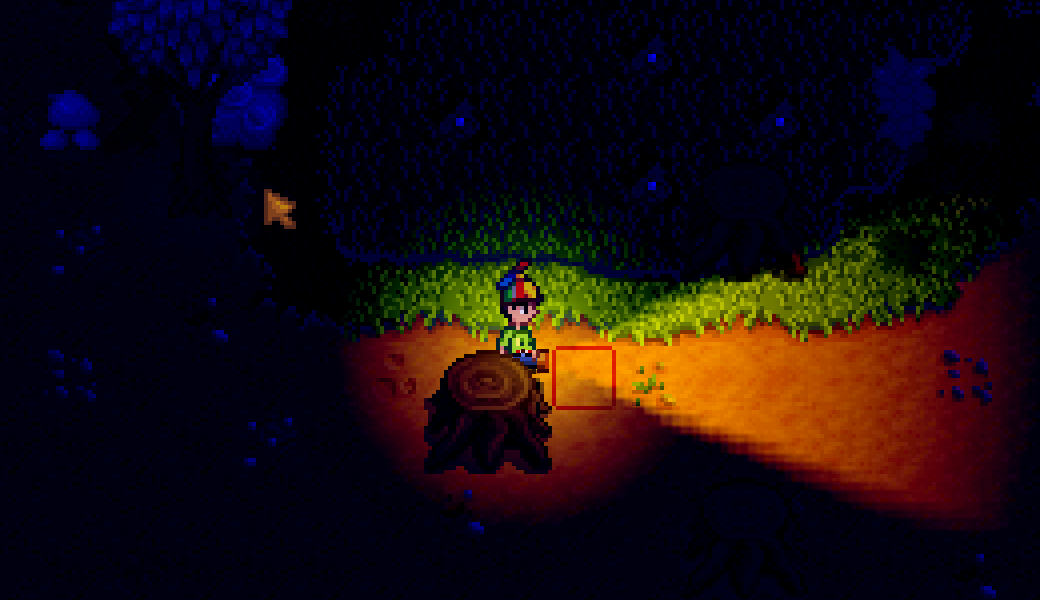
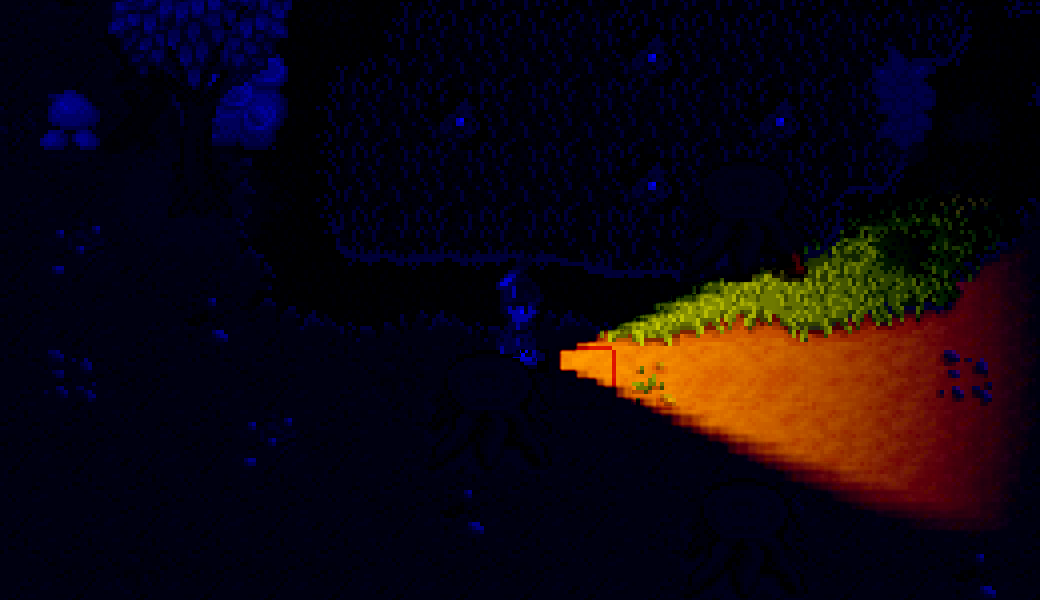
Make the flashlight a plain cone, keep the lens clear of the fingers and offset the front and back views to the hand

Changed region(s): [[0.3077, 0.33, 0.7077, 0.87], [0.2462, 0.3, 0.3077, 0.39]]

diff --git a/Flashlight/ModEntry.cs b/Flashlight/ModEntry.cs
@@ -27,7 +27,6 @@ namespace Flashlight
         // Each split-screen player has a flashlight of their own.
         private readonly PerScreen<bool> _on = new();
         private readonly PerScreen<string?> _lightId = new();
-        private readonly PerScreen<string?> _glowId = new();
         private readonly PerScreen<string?> _lightLocation = new();
         private readonly PerScreen<bool> _warnedLow = new();
         private readonly PerScreen<int> _flickerTicks = new();
@@ -422,26 +421,6 @@ namespace Flashlight
             return player.Position + from;
         }
 
-        /// <summary>The middle of the farmer, where the soft glow around them is centred.</summary>
-        private static Vector2 GlowOrigin(Farmer player) => player.Position + new Vector2(32f, -24f);
-
-        /// <summary>The soft glow is a little dimmer than the beam, so the beam still reads as the main light.</summary>
-        private Color GlowColor(float boost)
-        {
-            var c = ColorFor(boost);
-            return new Color(c.R, (int)(c.G * 0.7f), (int)(c.B * 0.7f));
-        }
-
-        /// <summary>Adds the soft light around the farmer, when the settings ask for one.</summary>
-        private void AddGlow(Farmer player, GameLocation location, float boost)
-        {
-            if (_config.AmbientGlowTiles <= 0 || _lightId.Value is null)
-                return;
-            var glowId = _lightId.Value + "_glow";
-            location.sharedLights.AddLight(new LightSource(glowId, LightSource.lantern, GlowOrigin(player), _config.AmbientGlowTiles * Brightness(boost), GlowColor(boost), LightSource.LightContext.None, player.UniqueMultiplayerID, location.NameOrUniqueName));
-            _glowId.Value = glowId;
-        }
-
         private void AddLight(Farmer player)
         {
             var location = player.currentLocation;
@@ -457,7 +436,6 @@ namespace Flashlight
             };
             location.sharedLights.AddLight(light);
             _lightId.Value = id;
-            AddGlow(player, location, boost);
             _lightLocation.Value = location.NameOrUniqueName;
         }
 
@@ -468,10 +446,7 @@ namespace Flashlight
             // the light may be in the place the farmer just left
             var location = Game1.getLocationFromName(_lightLocation.Value) ?? Game1.player.currentLocation;
             location?.removeLightSource(_lightId.Value);
-            if (_glowId.Value is not null)
-                location?.removeLightSource(_glowId.Value);
             _lightId.Value = null;
-            _glowId.Value = null;
             _lightLocation.Value = null;
         }
 
@@ -480,7 +455,6 @@ namespace Flashlight
             _on.Value = false;
             _tool.Value = null;
             _lightId.Value = null;
-            _glowId.Value = null;
             _lightLocation.Value = null;
         }
 
@@ -490,10 +464,7 @@ namespace Flashlight
                 return;
             // move the light into the new place
             e.OldLocation?.removeLightSource(_lightId.Value);
-            if (_glowId.Value is not null)
-                e.OldLocation?.removeLightSource(_glowId.Value);
             _lightId.Value = null;
-            _glowId.Value = null;
             AddLight(e.Player);
         }
 
@@ -523,19 +494,12 @@ namespace Flashlight
             }
 
             location.repositionLightSource(_lightId.Value, BeamOrigin(player));
-            // the glow can be switched on in the settings while the flashlight is already lit
-            if (_glowId.Value is null && _config.AmbientGlowTiles > 0)
-                AddGlow(player, location, 0f);
-            var glow = _glowId.Value is { } glowName ? location.getLightSource(glowName) : null;
-            glow?.position.Set(GlowOrigin(player));
             light.lightTexture = BeamFor(player.FacingDirection);
 
             // no beam during a cutscene or a festival, where the farmer is moved by the script
             if (Game1.eventUp)
             {
                 light.radius.Value = 0f;
-                if (glow is not null)
-                    glow.radius.Value = 0f;
                 return;
             }
 
@@ -552,11 +516,6 @@ namespace Flashlight
             var boost = _tool.Value is { } held ? FlashlightState.Boost(held) : 0f;
             light.color.Value = ColorFor(boost);
             light.radius.Value = Radius * Brightness(boost) * strength;
-            if (glow is not null)
-            {
-                glow.color.Value = GlowColor(boost);
-                glow.radius.Value = _config.AmbientGlowTiles * Brightness(boost) * strength;
-            }
         }
     }
 }

diff --git a/Flashlight.Tests/ModConfigTests.cs b/Flashlight.Tests/ModConfigTests.cs
@@ -9,7 +9,6 @@ public class ModConfigTests
         Assert.Equal("F", config.ToggleKey);
         Assert.Equal(7, config.BeamLengthTiles);
         Assert.Equal(4, config.BatteryHours);
-        Assert.Equal(3, config.AmbientGlowTiles);
         Assert.True(config.UseBatteryPacks);
         Assert.Equal(12, config.BatteryPackHours);
         Assert.Equal(130, config.BatteryPackBeamPercent);
@@ -47,17 +46,6 @@ public class ModConfigTests
         config.Clamp();
         Assert.Equal(expectedHours, config.BatteryPackHours);
         Assert.Equal(expectedPercent, config.BatteryPackBeamPercent);
-    }
-
-    [Theory]
-    [InlineData(-4, 0)]
-    [InlineData(3, 3)]
-    [InlineData(40, 6)]
-    public void TheGlowAroundTheFarmerIsKeptInRange(int set, int expected)
-    {
-        var config = new ModConfig { AmbientGlowTiles = set };
-        config.Clamp();
-        Assert.Equal(expected, config.AmbientGlowTiles);
     }
 
     [Fact]
@@ -113,7 +101,7 @@ public class ModConfigCopyTests
         {
             ToggleKey = "G", BeamLengthTiles = 5, BatteryHours = 7, BatterySlots = 3, FlashlightPrice = 111, BatteryPrice = 22,
             SoldAtCarpenter = false, BatteryDailyStock = 7, BatteryOutOfStockPercent = 33, BatteryLowStockPercent = 44,
-            MaxBatteriesCarried = 9, FlickerSecondsBetween = 77, UseBatteryPacks = false, AmbientGlowTiles = 5, BatteryPackHours = 20, BatteryPackBeamPercent = 150, ShowInHand = false,
+            MaxBatteriesCarried = 9, FlickerSecondsBetween = 77, UseBatteryPacks = false, BatteryPackHours = 20, BatteryPackBeamPercent = 150, ShowInHand = false,
         };
         var target = new ModConfig();
         target.CopyFrom(changed);
@@ -129,7 +117,7 @@ public class ModConfigCopyTests
         {
             ToggleKey = "G", BeamLengthTiles = 5, BatteryHours = 7, BatterySlots = 3, FlashlightPrice = 111, BatteryPrice = 22,
             SoldAtCarpenter = false, BatteryDailyStock = 7, BatteryOutOfStockPercent = 33, BatteryLowStockPercent = 44,
-            MaxBatteriesCarried = 9, FlickerSecondsBetween = 77, UseBatteryPacks = false, AmbientGlowTiles = 5, BatteryPackHours = 20, BatteryPackBeamPercent = 150, ShowInHand = false,
+            MaxBatteriesCarried = 9, FlickerSecondsBetween = 77, UseBatteryPacks = false, BatteryPackHours = 20, BatteryPackBeamPercent = 150, ShowInHand = false,
         };
         var defaults = new ModConfig();
         foreach (var property in typeof(ModConfig).GetProperties())

diff --git a/Flashlight/ConfigMenu.cs b/Flashlight/ConfigMenu.cs
@@ -23,7 +23,6 @@ namespace Flashlight
             menu.AddTextOption(manifest, () => config().ToggleKey, v => config().ToggleKey = v, () => t.Get("gmcm.key.name"), () => t.Get("gmcm.key.tip"));
             menu.AddNumberOption(manifest, () => config().BeamLengthTiles, v => config().BeamLengthTiles = v, () => t.Get("gmcm.beam.name"), () => t.Get("gmcm.beam.tip"), 3, 12, 1);
             menu.AddNumberOption(manifest, () => config().BatteryHours, v => config().BatteryHours = v, () => t.Get("gmcm.hours.name"), () => t.Get("gmcm.hours.tip"), 1, 12, 1);
-            menu.AddNumberOption(manifest, () => config().AmbientGlowTiles, v => config().AmbientGlowTiles = v, () => t.Get("gmcm.glow.name"), () => t.Get("gmcm.glow.tip"), 0, 6, 1, tiles => tiles == 0 ? t.Get("gmcm.off") : $"{tiles}");
             menu.AddBoolOption(manifest, () => config().ShowInHand, v => config().ShowInHand = v, () => t.Get("gmcm.hand.name"), () => t.Get("gmcm.hand.tip"));
             menu.AddBoolOption(manifest, () => config().UseBatteryPacks, v => config().UseBatteryPacks = v, () => t.Get("gmcm.packs.name"), () => t.Get("gmcm.packs.tip"));
             menu.AddNumberOption(manifest, () => config().BatteryPackHours, v => config().BatteryPackHours = v, () => t.Get("gmcm.packhours.name"), () => t.Get("gmcm.packhours.tip"), 1, 48, 1);

diff --git a/Flashlight/ModConfig.cs b/Flashlight/ModConfig.cs
@@ -12,9 +12,6 @@ namespace Flashlight
         /// <summary>How long one battery lasts, in in-game hours.</summary>
         public int BatteryHours { get; set; } = 4;
 
-        /// <summary>How far, in tiles, the soft light around the farmer reaches. 0 turns it off and leaves only the beam.</summary>
-        public int AmbientGlowTiles { get; set; } = 3;
-
         /// <summary>Whether the game's Battery Pack can be loaded as a longer lasting, brighter cell.</summary>
         public bool UseBatteryPacks { get; set; } = true;
 
@@ -74,7 +71,6 @@ namespace Flashlight
                 ToggleKey = "F";
             BeamLengthTiles = Math.Clamp(BeamLengthTiles, 3, 12);
             BatteryHours = Math.Clamp(BatteryHours, 1, 12);
-            AmbientGlowTiles = Math.Clamp(AmbientGlowTiles, 0, 6);
             BatteryPackHours = Math.Clamp(BatteryPackHours, 1, 48);
             BatteryPackBeamPercent = Math.Clamp(BatteryPackBeamPercent, 100, 200);
             FlashlightPrice = Math.Clamp(FlashlightPrice, 0, 100_000);

diff --git a/Flashlight/HeldFlashlight.cs b/Flashlight/HeldFlashlight.cs
@@ -119,9 +119,9 @@ namespace Flashlight
                 case 3: // left: the same picture turned round
                     cell = on; grip = new Vector2(HeldCell - 1.5f, 5.5f); effects = SpriteEffects.FlipHorizontally; lens = new Vector2(HeldCell - 11f, 5.5f); break;
                 case 0: // up: the end cap faces the viewer and the beam goes away from it
-                    cell = 4 + on; grip = new Vector2(6f, 6.5f); lens = new Vector2(6f, 3f); break;
+                    cell = 4 + on; grip = new Vector2(6f, 10.5f); lens = new Vector2(6f, 3f); break;
                 default: // down: the lens faces the viewer
-                    cell = 2 + on; grip = new Vector2(6f, 6f); lens = new Vector2(6f, 8f); break;
+                    cell = 2 + on; grip = new Vector2(6f, 10.5f); lens = new Vector2(6f, 8f); break;
             }
         }
 

diff --git a/docs/BALANCE.md b/docs/BALANCE.md
@@ -27,7 +27,7 @@ The game's Battery Pack sells for 500g and is not sold in any shop. It comes fro
 - **Battery slots.** The flashlight has two slots that work like the bait slot of a fishing rod. Right-click the flashlight in the backpack with Dry Cells on the cursor to load one into each slot, and right-click it with an empty hand to take one out. Hover it to see what is loaded. Only Dry Cells and Battery Packs fit, and only one to a slot, so it can never hold more cells than it has slots.
 - **Charge.** The flashlight keeps the charge of the cell in use. When that runs out it takes the next loaded cell, in slot order. With nothing loaded it goes out.
 - **Battery Pack.** A slot takes a Dry Cell or a Battery Pack. A pack lasts 12 hours (three Dry Cells) and while it is in use the beam is 30 percent longer (about 9 tiles) and takes more of the darkness away. It is found, not bought, so it is a reward for a lightning rod or a solar panel and not a way round the shop limits. The charge bar is measured against the best cell in the flashlight, so a Dry Cell only flashlight still reads full with every slot loaded and a pack flashlight reads full with every slot holding a pack.
-- **Light around the farmer.** While it is on there is also a soft light reaching 3 tiles, centred on the farmer, so the ground at their feet and behind them is not black. It is a little dimmer than the beam and smaller than a Small Glow Ring (5 tiles), so rings are still worth having.
+- **Only a cone.** Like a real flashlight it lights what it points at and nothing around the farmer, so it does not replace a torch for work at close range or a glow ring that lights every way.
 - **Switching.** A key (F, or a list such as `F, LeftShoulder` for a controller) or using the tool switches it on and off. The toolbar picture changes to a lit one while it is on.
 - **Charge bar.** Under the picture is a bar like the water bar of the watering can. It shows how much of a full load (every slot holding a fresh cell) is left, in steps: green above half, yellow above a quarter, orange above a tenth, red below that. The tooltip gives the same figure as a percentage.
 - **Only in the dark.** The charge only drains where a light matters: indoors, in the mines, or outside after dark or in the rain. A flashlight left on in the sun costs nothing.
@@ -38,7 +38,6 @@ The game's Battery Pack sells for 500g and is not sold in any shop. It comes fro
 | Setting | Default | Why |
 | --- | --- | --- |
 | Beam length | 7 tiles (9 with a Battery Pack) | More reach than a Small Glow Ring, far less coverage than a Glow Ring. |
-| Light around the farmer | 3 tiles | About a torch, under a Small Glow Ring. |
 | Beam spread | 30 degrees each side of the facing | Narrow on purpose. |
 | Battery slots | 2 | Two cells is 8 in-game hours, a full night with some to spare, and no more. |
 | Battery life | 4 in-game hours (24 ticks of 10 minutes) | About 170 real seconds per cell. |
@@ -78,7 +77,7 @@ The defaults are a first pass. Players can paste the output of the `flashlight_r
 | Most nights end with spare cells and the shop is never empty | Lower `BatteryDailyStock` or raise `BatteryOutOfStockPercent`. The target is a flashlight that costs thought on a bad shop day, not every day. |
 | The flashlight runs out mid night more than about one night in four | Raise `BatteryHours` or `BatteryDailyStock`. Upkeep should be a cost, not a wall. |
 | The 600g price is reached before spring ends and feels free | Raise `FlashlightPrice`. If it feels out of reach, check against when players first have 600g. |
-| Beam or glow is called too strong next to glow rings | Lower `BeamLengthTiles` or `AmbientGlowTiles`. Rings should stay better in the Mines. |
+| Beam or glow is called too strong next to glow rings | Lower `BeamLengthTiles`. Rings should stay better in the Mines. |
 | Battery Packs make the Dry Cell pointless | Lower `BatteryPackHours` or `BatteryPackBeamPercent`. A pack should be an event, not the default. |
 | Flicker is annoying | Raise `FlickerSecondsBetween`, or set it to 0. The low-charge warning flicker stays. |
 

diff --git a/CHANGELOG.md b/CHANGELOG.md
@@ -4,13 +4,13 @@ Versions follow [Semantic Versioning](https://semver.org/). Newest first.
 
 ## 0.1.0 (not released)
 
-First build. It compiles against Stardew Valley 1.6.15 and SMAPI 4.5.2 with no warnings and passes its tests. It was run in the game on a throwaway farm with only this mod loaded: the items and shop entries load, the beam and the soft light around the farmer show at night in all four directions, loaded cells drain and are swapped in turn (Dry Cells and Battery Packs, in slot order), the charge survives saving, the slots take only one cell each, the flicker and the lit toolbar picture work, and the farmer is drawn holding the flashlight while it is selected, standing and walking. Multiplayer, Linux and long play are untested.
+First build. It compiles against Stardew Valley 1.6.15 and SMAPI 4.5.2 with no warnings and passes its tests. It was run in the game on a throwaway farm with only this mod loaded: the items and shop entries load, the cone shows at night in all four directions, loaded cells drain and are swapped in turn (Dry Cells and Battery Packs, in slot order), the charge survives saving, the slots take only one cell each, the flicker and the lit toolbar picture work, and the farmer is drawn holding the flashlight while it is selected, standing and walking. Multiplayer, Linux and long play are untested.
 
 - Flashlight tool and Dry Cell battery, sold at Robin's Carpenter's Shop, with a Dry Cell recipe.
 - Two battery slots on the flashlight that work like the bait slot of a fishing rod: right-click to load one cell per slot or take one out, and hover to see them.
 - The game's Battery Pack can be loaded too. It lasts 12 in-game hours (three Dry Cells) and while it is in use the beam is 30 percent longer and brighter. Settings: `UseBatteryPacks`, `BatteryPackHours`, `BatteryPackBeamPercent`.
-- A forward beam in the four facing directions and a soft light around the farmer (`AmbientGlowTiles`, 0 turns it off), so the ground around them is lit and not only what is ahead. The toolbar picture shows when it is on.
-- The farmer is drawn holding the flashlight while it is the selected tool. It follows the hand through the walking frames, the beam starts at its lens, and from the front and back it is held in one hand and not in the middle of the body. `ShowInHand` turns it off.
+- A forward cone of light in the four facing directions, with nothing lit around the farmer, like a real flashlight. The toolbar picture shows when it is on.
+- The farmer is drawn holding the flashlight while it is the selected tool. It follows the hand through the walking frames, the beam starts at its lens, and from the front and back it is held in one hand, off to the side, with the lens clear of the fingers. `ShowInHand` turns it off.
 - Batteries drain while the flashlight is on and it is dark where the farmer is. The next loaded cell is used automatically.
 - A random flicker now and then, more often when the last cell is nearly flat, and a message when it goes out. It switches off when the farmer goes to bed.
 - A charge bar under the flashlight's picture like the water bar of the watering can (green, yellow, orange, red as it falls) and a charge line in the tooltip.

diff --git a/README.md b/README.md
@@ -9,7 +9,7 @@ This is an early build. It has been run in Stardew Valley 1.6.15 with SMAPI 4.5.
 ## What it adds
 
 - **Flashlight** (a tool): sold at Robin's Carpenter's Shop, one to a player. Press **F** (or use the tool) to switch it on and off. It keeps shining while you use other tools, which a torch cannot do. The toolbar picture shows when it is on, and a charge bar under it works like the water bar of the watering can.
-- **Light all around you and ahead of you**: a cone of light 7 tiles long and a soft light around you, 3 tiles out, so the ground at your feet is not black. It flickers now and then like an old flashlight with a loose cell, and much more often once the charge falls under a tenth of a full load.
+- **A cone of light**: a beam 7 tiles long in the direction you face, with nothing lit around you, like a real flashlight. It flickers now and then like an old flashlight with a loose cell, and much more often once the charge falls under a tenth of a full load.
 - **Held in your hand**: while the flashlight is the selected tool you are drawn holding it. It follows your hand as you walk, the beam starts at its lens, and from the front and back it is held in one hand.
 - **Battery slots**: the flashlight has two, like the bait slot on a fishing rod. Right-click the flashlight with cells on the cursor to load them, one to a slot, and right-click it with an empty hand to take one out. Hover it to see what is loaded.
 - **Dry Cell** (a battery): sold at Robin's in limited numbers, or crafted from 1 Copper Bar and 1 Coal for 3 cells once you reach Mining level 2. Each lasts 4 in-game hours, and only while it is dark where you are.
@@ -39,7 +39,6 @@ Edit `config.json` in the mod folder after the first run, or change them in game
 | --- | --- | --- |
 | `ToggleKey` | `F` | The button or buttons that switch the flashlight on and off, such as `F, LeftShoulder`. |
 | `BeamLengthTiles` | `7` | How far the beam reaches (3 to 12). |
-| `AmbientGlowTiles` | `3` | How far the soft light around you reaches (0 to 6). 0 leaves only the beam. |
 | `ShowInHand` | `true` | Draw the flashlight in your hand while it is selected. |
 | `BatteryHours` | `4` | In-game hours one Dry Cell lasts (1 to 12). |
 | `UseBatteryPacks` | `true` | Whether the game's Battery Pack can be loaded. |

diff --git a/docs/ROADMAP.md b/docs/ROADMAP.md
@@ -6,7 +6,6 @@ Nothing here is promised for a date. The order follows what players report, and 
 
 - The flashlight in the farmer's hand while it is the selected tool. The picture is placed from the measured hand of the arm the game draws in the current frame, drawn just under the arm so the fingers close over the handle. The beam starts at the lens. From the front and back it is held in the right hand, offset from the body.
 - The game's Battery Pack as a better cell: 12 hours of light, a beam 30 percent longer and brighter.
-- A soft light around the farmer as well as the beam.
 - A local usage tally and a `flashlight_report` console command, so balance feedback can come with numbers.
 
 ## Next
